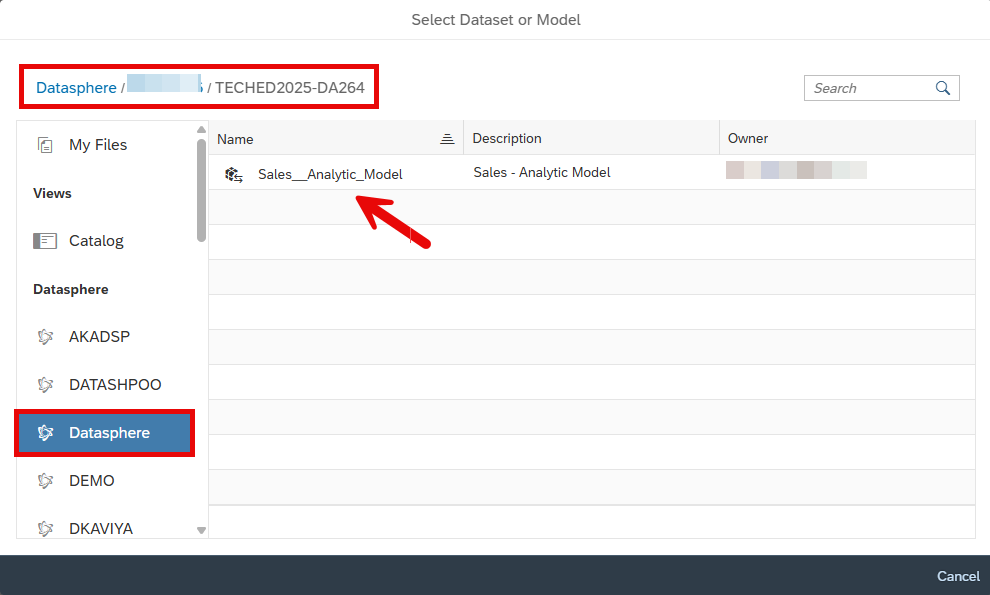
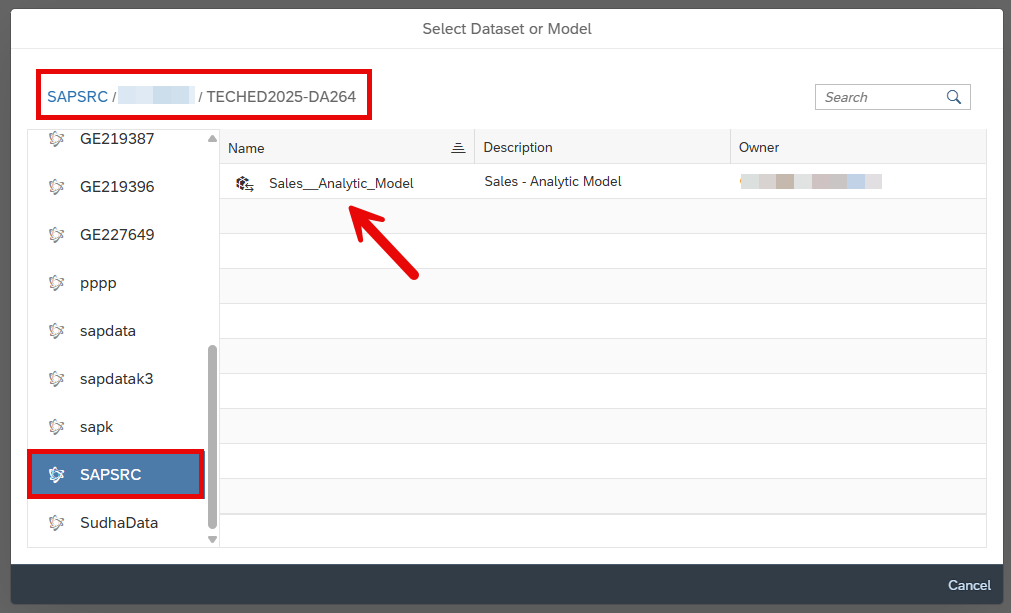
update

Changed region(s): [[0.0, 0.0, 1.0, 1.0], [0.7273, 0.2118, 0.8788, 0.3328], [0.4242, 0.2118, 0.6364, 0.3328]]

diff --git a/exercises/ex08/README.md b/exercises/ex08/README.md
@@ -21,7 +21,7 @@ In this exercise, we will create a story in SAP Analytics Cloud (SAC), which all
   ![](images/00_00_0204.png)
 
 5. To select the model that you want to reference in your story:
-    - Select `Datasphere` as the connection on the left panel.
+    - Select `SAPSRC` as the connection on the left panel.
     - Select your space, e.g., `GE123456`, and the folder `TECHED2025-DA264`.
     - For our first example, select your `Sales - Analytic Model`.
 

diff --git a/exercises/ex09/README.md b/exercises/ex09/README.md
@@ -40,7 +40,7 @@ In this exercise, we will set up a story in SAP Analytics Cloud that allows us t
 
 9.  To select the model that you want to reference in your story:
 
-      - Select `Datasphere` as the connection on the left panel.
+      - Select `SAPSRC` as the connection on the left panel.
       - Select your space, e.g., `GE123456`, and the folder `TECHED2025-DA264`.
       - For our first example, select your `Sales - Analytic Model`.
     
